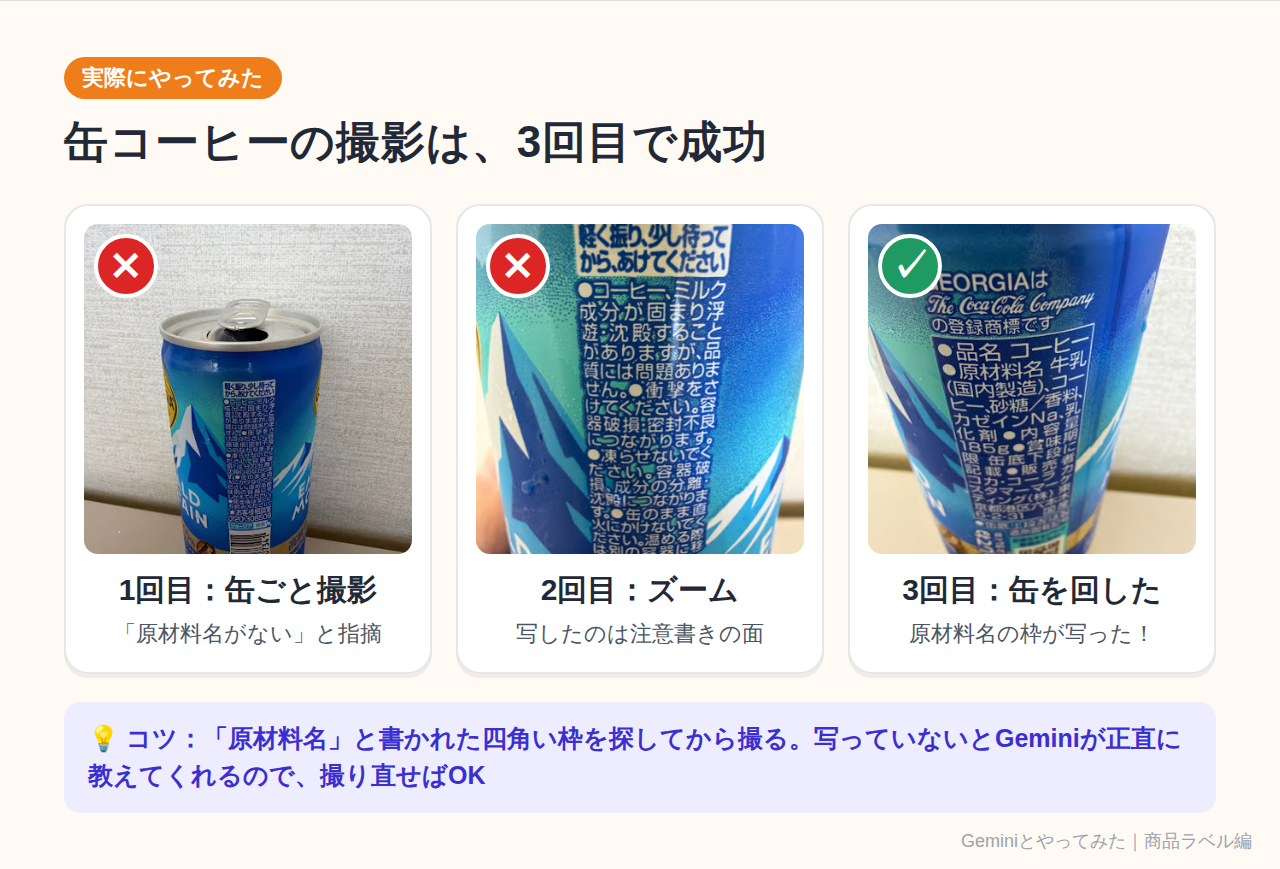
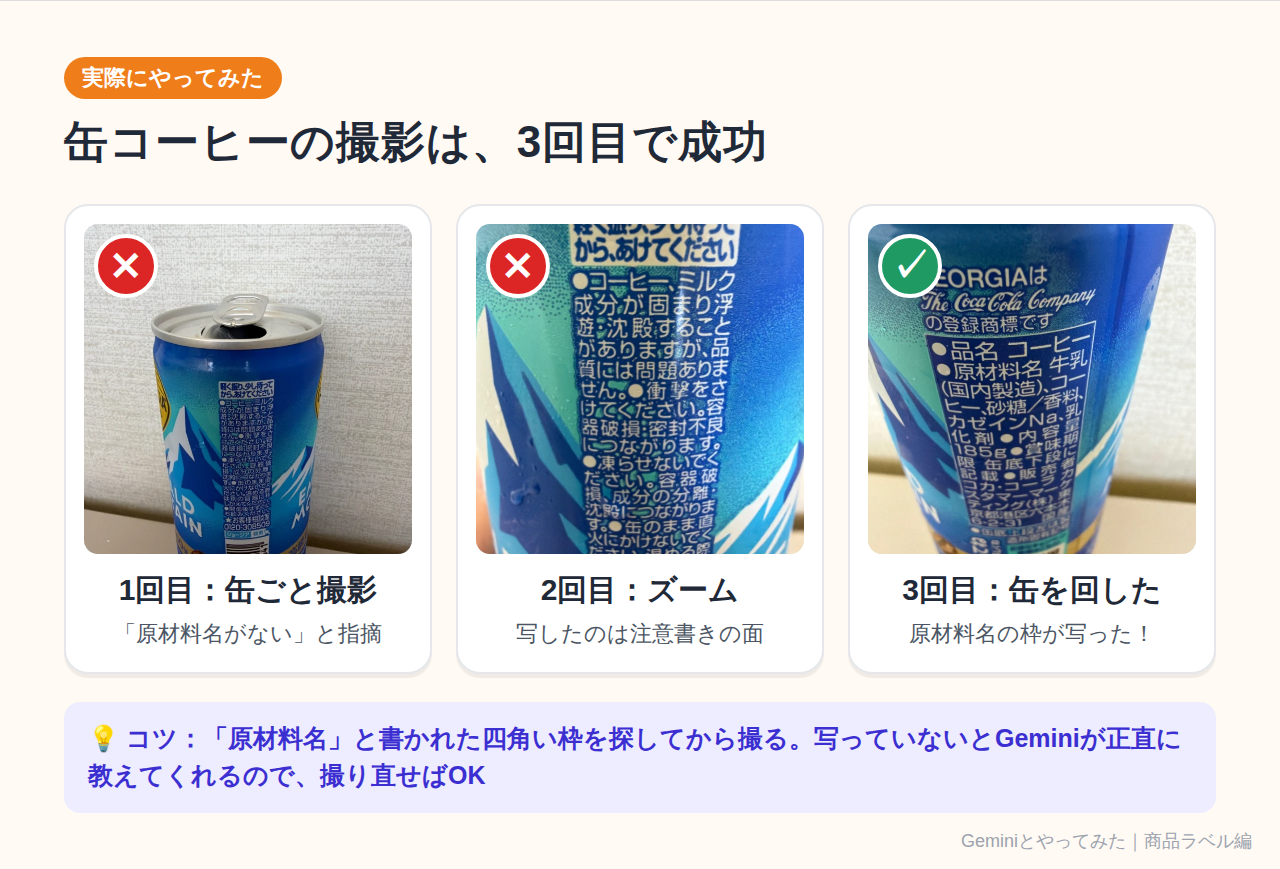
note下書き: 缶コーヒーの写真を元画像に差し替え
- PDFから抽出した縮小写真を、マスター提供の元写真に置き換え
- ラベル解読の図解に正面写真（栄養成分表示）を追加
- スクショの枠線が出ないよう写真を少しトリミング

Claude-Session: https://claude.ai/code/session_019Vc69Cw1AthTmh7PjNzEjq

diff --git a/note/gemini-label/src/diagrams.html b/note/gemini-label/src/diagrams.html
@@ -124,7 +124,7 @@
   #f02a .shots { display: flex; gap: 24px; margin-top: 34px; }
   #f02a .shot { flex: 1; padding: 18px 18px 22px; text-align: center; }
   #f02a .shot .ph { position: relative; height: 330px; border-radius: 14px; overflow: hidden; background: #eee; }
-  #f02a .shot img { width: 100%; height: 100%; object-fit: cover; display: block; }
+  #f02a .shot img { width: 100%; height: 100%; object-fit: cover; display: block; transform: scale(1.07); }
   #f02a .mark { position: absolute; top: 10px; left: 10px; width: 64px; height: 64px; border-radius: 50%; display: grid; place-items: center; font-size: 40px; font-weight: 900; color: #fff; border: 4px solid #fff; }
   #f02a .shot h3 { font-size: 30px; font-weight: 900; margin-top: 16px; }
   #f02a .shot p { font-size: 22px; color: var(--sub); margin-top: 6px; line-height: 1.5; }
@@ -133,7 +133,8 @@
   /* 02c coffee label */
   #f02c .body { display: flex; gap: 30px; margin-top: 30px; }
   #f02c .pics { width: 330px; flex: none; display: flex; flex-direction: column; gap: 14px; }
-  #f02c .pics img { width: 100%; border-radius: 14px; display: block; border: 3px solid #fff; box-shadow: 0 2px 8px rgba(0,0,0,.15); }
+  #f02c .pics .pw { height: 360px; border-radius: 14px; overflow: hidden; border: 3px solid #fff; box-shadow: 0 2px 8px rgba(0,0,0,.15); }
+  #f02c .pics img { width: 100%; height: 100%; object-fit: cover; display: block; transform: scale(1.07); }
   #f02c .pics .cap { font-size: 18px; color: var(--mute); text-align: center; }
   #f02c .notes { flex: 1; display: flex; flex-direction: column; gap: 14px; }
   #f02c .n { padding: 16px 22px; }
@@ -231,17 +232,17 @@
   <h2>缶コーヒーの撮影は、3回目で成功</h2>
   <div class="shots">
     <div class="shot card">
-      <div class="ph"><img src="photos/coffee_1_first.jpg" alt=""><span class="mark" style="background:var(--danger)">✕</span></div>
+      <div class="ph"><img src="photos/coffee_1_first.webp" alt=""><span class="mark" style="background:var(--danger)">✕</span></div>
       <h3>1回目：缶ごと撮影</h3>
       <p>「原材料名がない」と指摘</p>
     </div>
     <div class="shot card">
-      <div class="ph"><img src="photos/coffee_2_zoom.jpg" alt=""><span class="mark" style="background:var(--danger)">✕</span></div>
+      <div class="ph"><img src="photos/coffee_2_zoom.webp" alt=""><span class="mark" style="background:var(--danger)">✕</span></div>
       <h3>2回目：ズーム</h3>
       <p>写したのは注意書きの面</p>
     </div>
     <div class="shot card">
-      <div class="ph"><img src="photos/coffee_3_ingredients.jpg" alt=""><span class="mark" style="background:var(--sup)">✓</span></div>
+      <div class="ph"><img src="photos/coffee_3_ingredients.webp" alt=""><span class="mark" style="background:var(--sup)">✓</span></div>
       <h3>3回目：缶を回した</h3>
       <p>原材料名の枠が写った！</p>
     </div>
@@ -256,7 +257,8 @@
   <h2>缶コーヒー1本のラベルから、ここまでわかった</h2>
   <div class="body">
     <div class="pics">
-      <img src="photos/coffee_3_ingredients.jpg" alt="">
+      <div class="pw"><img src="photos/coffee_3_ingredients.webp" alt=""></div>
+      <div class="pw"><img src="photos/coffee_4_front.webp" alt=""></div>
       <div class="cap">筆者撮影（185g缶）</div>
     </div>
     <div class="notes">

diff --git a/note/gemini-label/README.md b/note/gemini-label/README.md
@@ -10,7 +10,7 @@
 | `article.html` | コピペ用プレビュー（ブラウザで開いて全選択→noteに貼り付け） |
 | `images/00_eyecatch.png` | 見出し画像（1280×670、noteの推奨比率） |
 | `images/01〜06_*.png` | 本文中の図解・Gemini実画面（`02a`〜`02e` は缶コーヒー実演） |
-| `src/photos/` | 缶コーヒーの撮影写真（GeminiのPDFから抽出） |
+| `src/photos/` | 缶コーヒーの撮影写真（マスター撮影） |
 | `src/diagrams.html` | 図解の元データ（文言を直したらここを編集） |
 | `src/render.mjs` | 図解をPNGに書き出すスクリプト |
 | `src/build_html.py` | `article.md` から `article.html` を作るスクリプト |
@@ -27,7 +27,7 @@
 ## 投稿前チェック（ここだけはマスターの作業）
 
 - [x] 食べ物編：缶コーヒーの実演（写真・Gemini実画面）を反映済み
-- [ ] **写真の画質**：`src/photos/` はPDFから取り出した縮小画像（384×512）。元写真に差し替えると図解がくっきりします（同名で上書き → `NODE_PATH=$(npm root -g) node src/render.mjs`）
+- [x] 写真の画質：マスター提供の元写真に差し替え済み
 - [ ] 食べ物編の「私の仕事（現場での安全管理）まで踏まえて」の一文：仕事に触れたくなければ削除
 - [ ] 洗剤・化粧品・サプリも実物で試すなら、Geminiの回答画面スクショを各章に1枚追加（任意）
 - [ ] 実在商品の写真は中立的な紹介にとどめる（今回の缶コーヒー解説は事実の紹介のみ）
